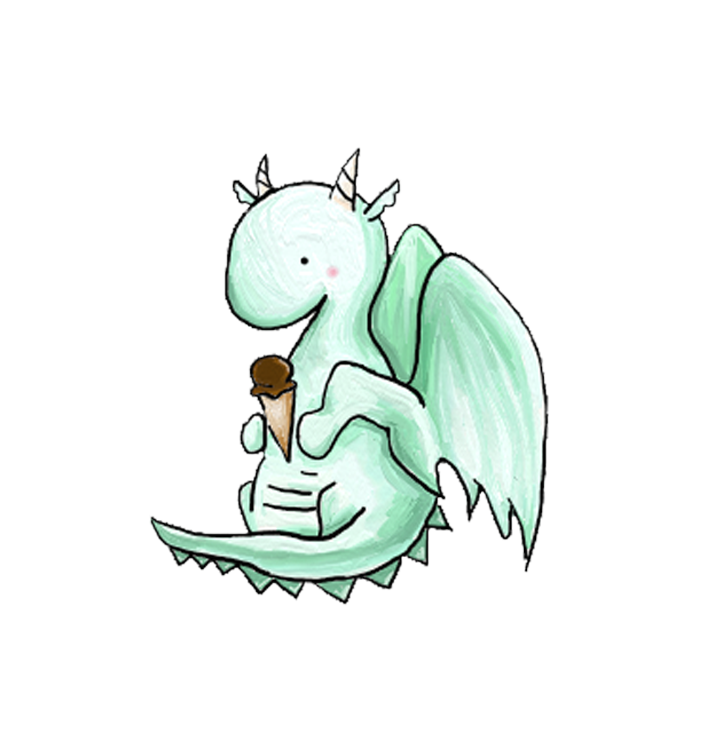
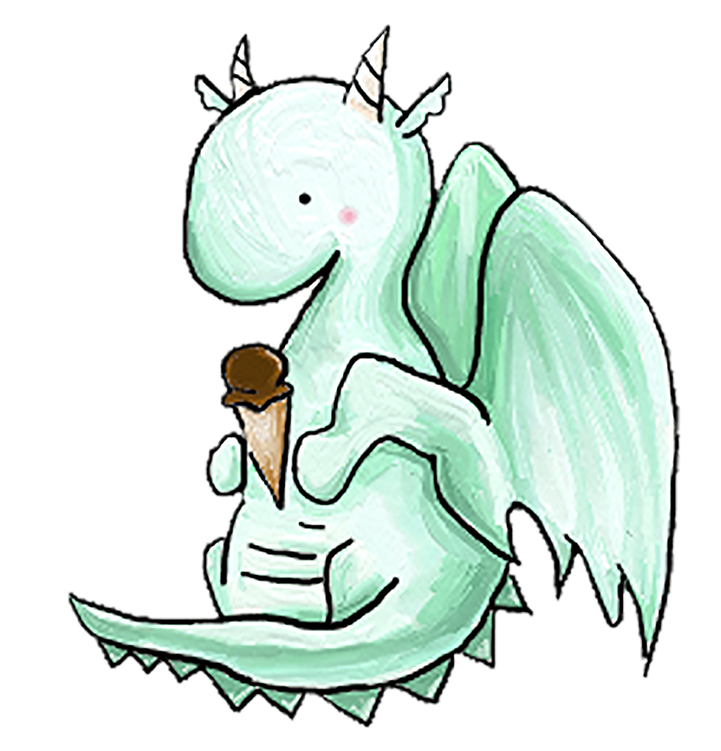
compress

diff --git a/index.html b/index.html
@@ -57,7 +57,7 @@
 				</div>
 
 				<div id="drag-on1" class="dragon-content">
-				<img class="dragon" src='assets/imgs/dragon2.png'>
+				<img class="dragon" src='assets/imgs/dragon.png'>
 				</div>
 
 				<div id="drag-on2" class="dragon-content">
